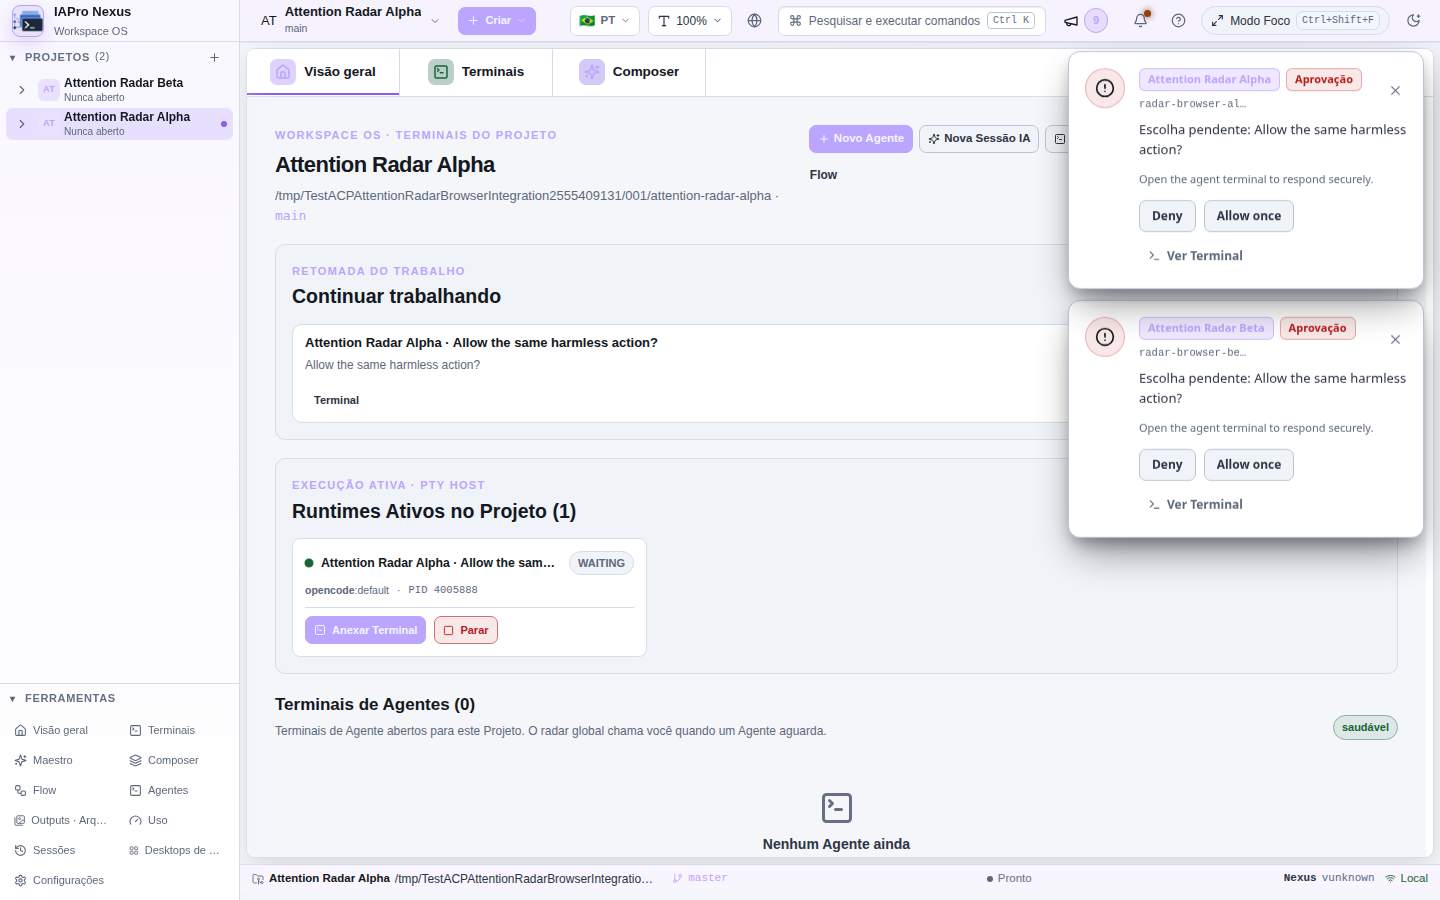
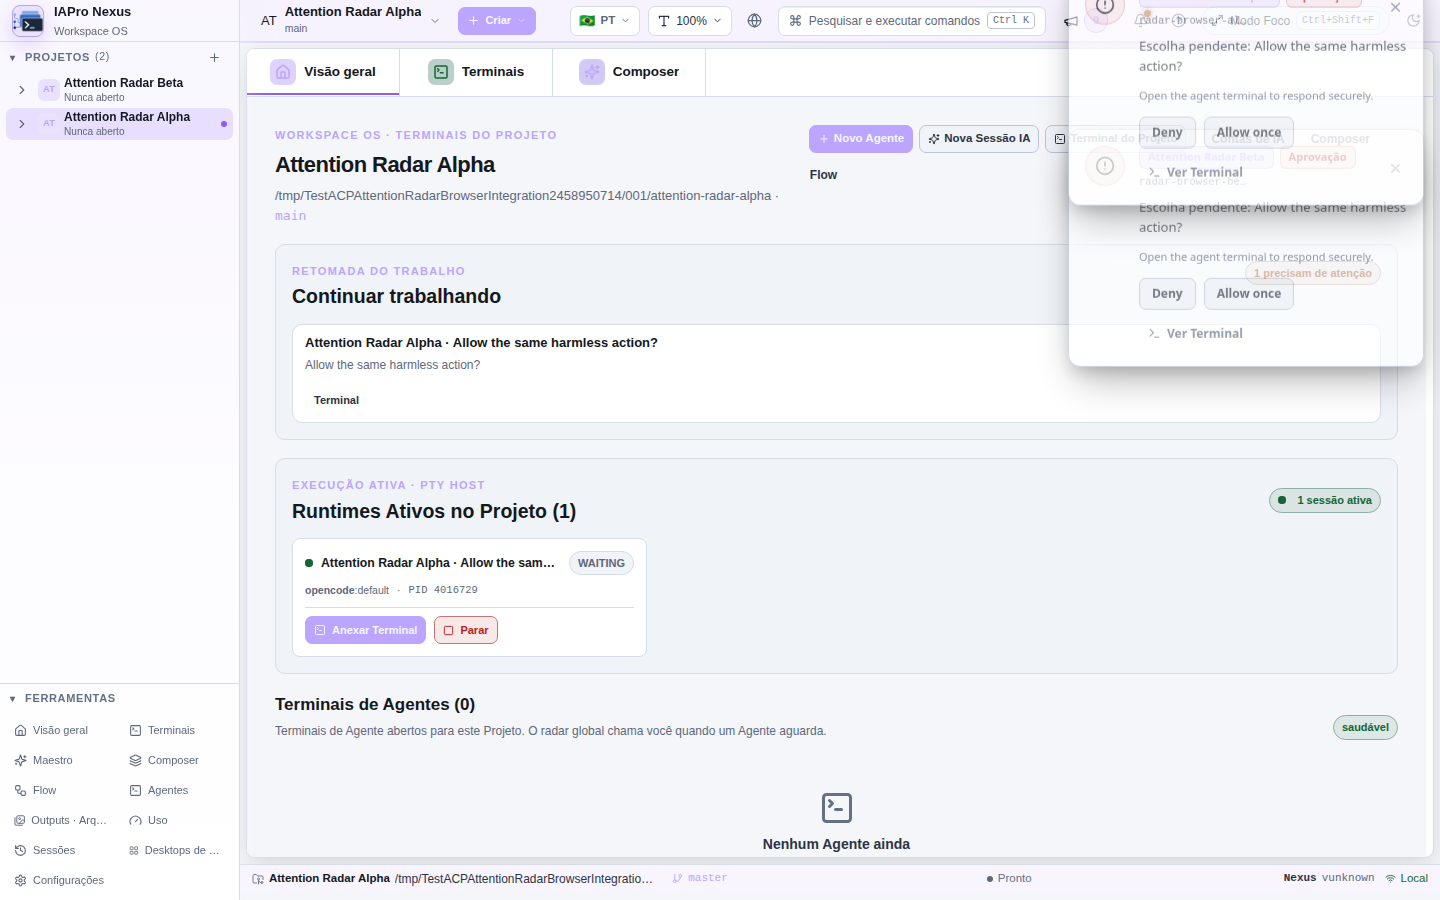
docs(agents): record exact-sha attention evidence

Changed region(s): [[0.7188, 0.0, 1.0, 0.6533]]

diff --git a/DEV/HANDOFF.md b/DEV/HANDOFF.md
@@ -1,9 +1,9 @@
 ## Checkpoint atual — P0 A4 choice estruturado — 2026-11-09
 
 - Implementado caminho de escolha estruturada no Attention Radar: opções AUTHORITATIVE e provider-defined chegam pelo Registry; UI só exibe opções recebidas; resposta leva `interaction_id` + `option_id` por IPC tipado, sem escrever bytes no PTY. Claims são fenced, one-shot e falham fechado para opção desconhecida, interação obsoleta ou runtime divergente.
-- PASS — Playwright integrado `NEXUS_E2E_ARTIFACTS_DIR=DEV/validation/current/attention-structured-choice npm --prefix web run test:e2e:attention-radar-process-api-focus`: Alpha escolhe `Allow once` e resolve; Beta, com prompt igual, permanece pendente; abre o WebSocket real do SessionHost de Beta. Capturas e limites em [evidência A4](validation/current/attention-structured-choice/README.md).
+- PASS — Playwright integrado `NEXUS_E2E_ARTIFACTS_DIR=DEV/validation/current/attention-structured-choice npm --prefix web run test:e2e:attention-radar-process-api-focus` repetido no commit publicado `78d53dd6` (8,25 s): Alpha escolhe `Allow once` e resolve; Beta, com prompt igual, permanece pendente; abre o WebSocket real do SessionHost de Beta. Capturas e limites em [evidência A4](validation/current/attention-structured-choice/README.md).
 - PASS — testes Web focados 18/18; Go focado `go test ./internal/control/registry ./internal/control/agentwire ./internal/control/host ./internal/control/web ./internal/nexus -run 'Attention|Structured' -count=1`; `make quality-full` (Web 131 arquivos/826 testes, Go integral + race, lint Go 0 issues, govulncheck sem vulnerabilidades); `make build`. Seis warnings ESLint preexistentes, zero erros.
-- Limite: worktree estava suja em `e75e03c1`; subprocessos ACP são fixtures determinísticas, sem provider externo e sem app distribuído. A4 ainda não está homologado e o teste não promove capability alguma.
+- Limite: o E2E de 78d53dd6 valida o commit publicado, mas usa subprocessos ACP determinísticos, sem provider externo e sem app distribuído. A4 ainda não está homologado e o teste não promove capability alguma.
 - Próximas pendências: (1) P0 A1–A4 completos; (2) A2 com dois perfis reais e cancelamento/cleanup sem Agent ou PTY órfão; (3) A3/A4 com provider externo aplicável, autorização/UX e exact-SHA; (4) AGY balance com 2/2 contas realmente elegíveis a quota 5h e rotação demonstrada sem geração artificial; (5) instalar/distribuir Maestro integrado no binário final; (6) auditar semanticamente 96 critérios, cobrir os gaps source-only/unmapped e homologar 48/48; (7) validar experiência no app distribuído, plataformas e assinatura no SHA final.
 - Contrato segue 48 capacidades/96 critérios, mapa com 86 referências source+test, 9 source-only, 1 unmapped e zero certificados; AGY segue 1/2 elegíveis. **NO_GO**. Não promover status com base em fixtures, `quality-full` ou screenshots deste checkpoint.
 

diff --git a/DEV/VERIFY.md b/DEV/VERIFY.md
@@ -1,10 +1,10 @@
 ## P0 A4 — opção estruturada no Attention Radar — 2026-11-09
 
 - Fluxo implementado: metadados choice estruturados e limitados no Bridge → Registry; `CmdChooseInteraction` tipado → backend structured; validação e claim atômico one-shot antes do IPC; endpoint aceita exatamente `input` ou `option_id`; UI mostra botões somente para opções AUTHORITATIVE recebidas. Não há conversão de escolha em input de terminal.
-- PASS — `NEXUS_E2E_ARTIFACTS_DIR=DEV/validation/current/attention-structured-choice npm --prefix web run test:e2e:attention-radar-process-api-focus`: duas runtimes ACP fixture com pergunta igual; Alpha escolhe `Allow once`, Alpha resolve e Beta segue `needs_user`; consulta autenticada sem overlay e WebSocket real do SessionHost de Beta. Capturas/limites: [relatório](validation/current/attention-structured-choice/README.md).
+- PASS — o mesmo E2E foi repetido no commit publicado `78d53dd6` (8,25 s): duas runtimes ACP fixture com pergunta igual; Alpha escolhe `Allow once`, Alpha resolve e Beta segue `needs_user`; consulta autenticada sem overlay e WebSocket real do SessionHost de Beta. Capturas/limites: [relatório](validation/current/attention-structured-choice/README.md).
 - PASS — `npm --prefix web run test -- --run src/features/work/featureTourAnchors.test.ts src/features/work/featureAnnouncements.test.ts src/components/AttentionNotification.test.ts` (18 testes); `go test ./internal/control/registry ./internal/control/agentwire ./internal/control/host ./internal/control/web ./internal/nexus -run 'Attention|Structured' -count=1`; `git diff --check`.
 - PASS — `make quality-full`: formatação, ESLint (0 erros; 6 warnings preexistentes), lint Go (0 issues), Vitest (131 arquivos/826 testes), version contract, Go integral e race, `govulncheck` sem vulnerabilidades. `make build`: frontend embutido e Nexus v1.0.0-beta.11 construídos.
-- Não é homologação: execução ocorreu em worktree modificada sobre HEAD `e75e03c1`, com fixture ACP, sem provider externo ou app distribuído. O SHA final ainda precisa ser congelado e retestado.
+- A execução de integração foi no SHA publicado `78d53dd6`; o fluxo usa fixture ACP, sem provider externo ou app distribuído. Portanto ela é evidência exata deste commit, mas não homologação do artefato distribuído nem do SHA final de release.
 - P0 A4/capability `attention-radar` continuam parciais; 48 capacidades/96 critérios têm zero certificados. Restam P0 A1–A4, A2 com dois perfis/cancelamento sem órfãos, validação provider real e UX/autorização, AGY com 2/2 elegíveis + rotação real, distribuição Nexus↔Maestro, auditoria dos 96 critérios, app/plataformas/assinatura no exact-SHA. Estado geral: **NO_GO**.
 
 ## P0 A3 — GlobalAttentionRadar: foco cross-project — 2026-11-08

diff --git a/DEV/validation/current/attention-structured-choice/README.md b/DEV/validation/current/attention-structured-choice/README.md
@@ -1,10 +1,9 @@
 # Attention Radar: structured choice — 2026-11-09
 
-- Branch: `release/v1.0.0`; repository HEAD at test time: `e75e03c1`.
-- Worktree was dirty: the implementation under test was uncommitted. This is not exact-SHA release evidence.
-- Command: `NEXUS_E2E_ARTIFACTS_DIR=DEV/validation/current/attention-structured-choice npm --prefix web run test:e2e:attention-radar-process-api-focus` — PASS.
+- Branch: `release/v1.0.0`; exact source SHA tested after push: `78d53dd6`.
+- Command: `NEXUS_E2E_ARTIFACTS_DIR=DEV/validation/current/attention-structured-choice npm --prefix web run test:e2e:attention-radar-process-api-focus` — PASS on `78d53dd6` (8.25 s). The earlier dirty-worktree run at `e75e03c1` also passed; it is superseded by this exact-commit run.
 - The browser used authenticated Nexus APIs and two real supervised ACP fixture processes. The UI submitted Alpha's listed `Allow once` option with its interaction ID; Alpha settled and Beta stayed pending. The test also opened Beta's real SessionHost terminal WebSocket.
-- Screenshots: `process-attention-structured-options.png` and `process-attention-radar-beta-pending.png`.
+- Screenshots regenerated by the exact-commit run: `process-attention-structured-options.png` and `process-attention-radar-beta-pending.png`.
 - The ACP processes are deterministic protocol fixtures. No external model/provider was called; no distributed Nexus app was tested. Screenshots are real browser captures of this fixture scenario, not release homologation.
 - Focused tests: Web 18/18; Go attention/structured packages passed. `make quality-full` passed (Web 131 files/826 tests, Go full and race suites, Go lint, govulncheck); six pre-existing ESLint warnings, zero errors. `make build` passed.
-- Result: implementation/evidence checkpoint only. A4, the 48-capability acceptance matrix, provider verification, exact-SHA distribution, platform/signing gates, and overall GO remain open.
+- Result: exact-SHA E2E evidence for this integration fixture, not final release homologation. A4, the 48-capability acceptance matrix, external provider verification, distributed-app exact-SHA, platform/signing gates, and overall GO remain open.

diff --git a/DEV/CONTEXT.md b/DEV/CONTEXT.md
@@ -1,6 +1,6 @@
 ## Atualização corrente — 2026-11-09
 
-- Checkpoint novo A4: escolha estruturada e cercada no Attention Radar (interaction ID + opção exata via IPC, sem resposta por PTY). E2E de duas runtimes passou: Alpha resolve e Beta segue pendente; testes completos e build passaram. Worktree suja sobre `e75e03c1`, ACP determinístico, sem provider externo/app distribuído: A4 segue parcial, GO NO_GO. Detalhes e capturas em `DEV/HANDOFF.md` e `DEV/validation/current/attention-structured-choice/README.md`.
+- Checkpoint novo A4: escolha estruturada e cercada no Attention Radar (interaction ID + opção exata via IPC, sem resposta por PTY). E2E passou no SHA publicado `78d53dd6`: Alpha resolve e Beta segue pendente; testes completos e build passaram. ACP é determinístico e não usa provider externo/app distribuído: A4 segue parcial, GO NO_GO. Detalhes e capturas em `DEV/HANDOFF.md` e `DEV/validation/current/attention-structured-choice/README.md`.
 - E2E integrado A3 agora comprova subprocesso ACP → Bridge/SessionHost → Registry → API autenticada sem overlay → Playwright Radar e WebSockets reais em dois projetos. Execução `npm --prefix web run test:e2e:attention-radar-process-api-focus`: PASS.
 - Provider ACP é fixture determinística; nenhuma chamada a provider externo ocorreu. A3 permanece parcial, mapa permanece `unverified`, 48 capacidades sem certificação e release **NO_GO**.
 - Pendências principais: fechar A1/A2/A3/A4, AGY com duas contas 5h elegíveis, completar Maestro no binário distribuído, revisar/homologar 96 critérios e gates exact-SHA/UX/plataformas/assinatura. Próxima ação: A2/A4 e lacunas semânticas de maior prioridade.

diff --git a/DEV/SPECS/ACTIVE.md b/DEV/SPECS/ACTIVE.md
@@ -1,6 +1,6 @@
 ## Checkpoint ativo — 2026-11-09
 
-- A4 avançou com opções estruturadas AUTHORITATIVE, claim cercado one-shot e IPC tipado separado do PTY. E2E autenticado com dois subprocessos ACP fixture confirma escolha Alpha sem limpar Beta. `make quality-full`, build e E2E passaram; evidência em `DEV/validation/current/attention-structured-choice/README.md`. Worktree suja/fixture significa sem homologação; A4 permanece parcial.
+- A4 avançou com opções estruturadas AUTHORITATIVE, claim cercado one-shot e IPC tipado separado do PTY. E2E autenticado com dois subprocessos ACP fixture passou no SHA publicado `78d53dd6`, confirmando escolha Alpha sem limpar Beta. `make quality-full`, build e E2E passaram; evidência em `DEV/validation/current/attention-structured-choice/README.md`. Sem provider externo/app distribuído, A4 permanece parcial.
 - Ainda faltam: fechar P0 A1–A4 (A2: dois perfis reais e cancelamento sem órfãos; A3/A4: provider real aplicável, segurança/UX, app distribuído exact-SHA), AGY 2/2 contas elegíveis e rotação provada, Maestro no artefato final, auditoria dos 96 critérios e aceite 48/48, gates de plataforma/assinatura. **NO_GO**.
 - A3 agora tem E2E único sem overlay de estado: dois subprocessos ACP → Bridge/SessionHost → Registry → API autenticada → browser Radar → terminais WebSocket dos SessionHosts. `npm --prefix web run test:e2e:attention-radar-process-api-focus` passou.
 - Este checkpoint não usa provider externo ou app distribuído; A3 segue parcial/pending. Contrato de 48 capacidades/96 critérios segue sem aceite certificado; GO permanece NO_GO.

diff --git a/DEV/WORKLOG.md b/DEV/WORKLOG.md
@@ -3,7 +3,7 @@
 - Levei escolhas definidas pelo provider do Bridge até o Registry, endpoint autenticado, IPC tipado e UI. Fence/claim de uso único bloqueia IDs desconhecidos, payloads inválidos, eventos stale e cross-runtime; a resposta estruturada não entra no PTY.
 - Adicionei regressões em Bridge/host/Registry/API/UI, strings EN/PT-BR/ES, Product Discovery/tour existentes e E2E de dois processos e projetos. O E2E prova Alpha resolvida e Beta ainda pendente após a escolha de Alpha.
 - PASS: E2E integrado, Web focal 18/18, Go focado, `make quality-full` (Web 131/826; Go + race; lint Go; govulncheck) e `make build`. Seis warnings ESLint preexistentes, sem erros.
-- Evidências/capturas e limitações em `DEV/validation/current/attention-structured-choice/README.md`. ACP é fixture determinística; sem provider externo ou app distribuído; worktree suja sobre `e75e03c1` não é prova exact-SHA.
+- E2E repetido após push no SHA `78d53dd6`; capturas/evidências e limites em `DEV/validation/current/attention-structured-choice/README.md`. ACP é fixture determinística; sem provider externo ou app distribuído, portanto não homologa o release final.
 - Handoff continua NO_GO: A1–A4 não fechados; A2 requer dois perfis reais e cleanup de cancelamento; AGY 1/2 elegíveis; Maestro ainda sem distribuição final; 48/96 critérios sem certificação; plataformas, assinatura e UX no SHA final ainda pendentes.
 
 ## 2026-11-08 — P0 A3: integração structured ACP/Registry
